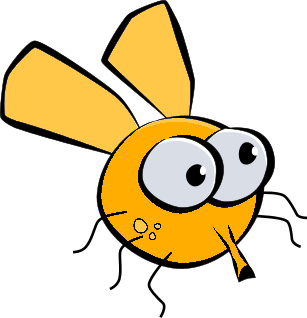
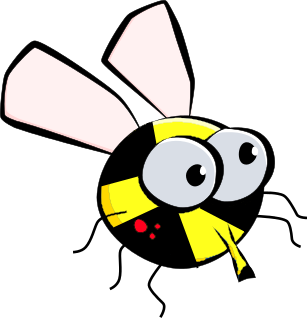
updated version # to 0.1.5 and added new art for explosive flies

Changed region(s): [[0.0, 0.0, 0.8502, 0.8774]]

diff --git a/www/index.html b/www/index.html
@@ -45,7 +45,7 @@
                 <div id="startButton" class="button firstButton">Start</div>
                 <div id="highScoreButton" class="button">High Scores</div>
                 <div id="aboutButton" class="button">About</div>
-                <div class="footerText">Version 0.1.4</div>
+                <div class="footerText">Version 0.1.5</div>
             </div>
         </div>
     </div>

diff --git a/www/css/game.css b/www/css/game.css
@@ -261,6 +261,7 @@ html, body {
 
 .explosion {
   position: absolute;
+  z-index: 1;
 }
 
 .fly {
